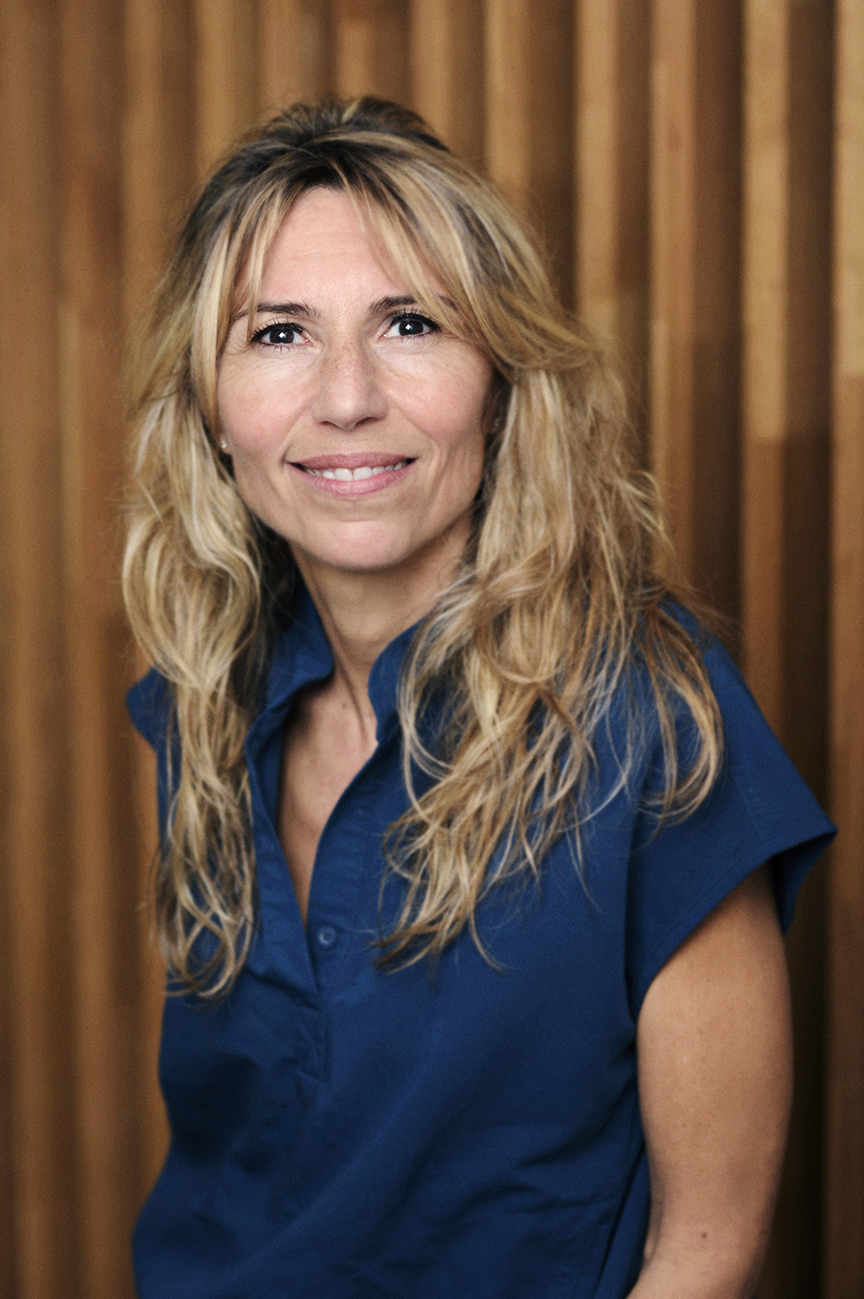
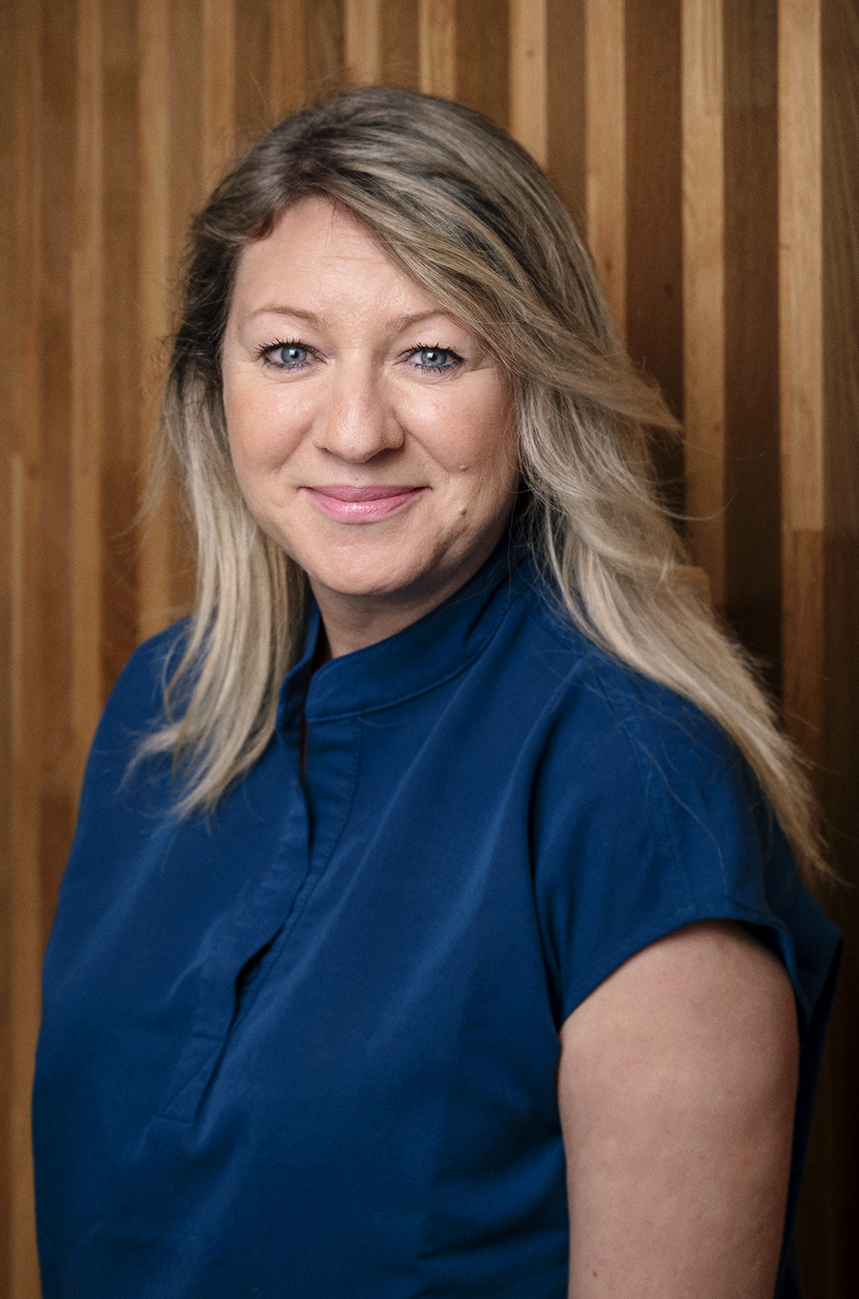
Correction horaires

diff --git a/src/components/homeComponents/Presentation/PresentationSection.tsx b/src/components/homeComponents/Presentation/PresentationSection.tsx
@@ -26,10 +26,10 @@ const PresentationSection: FC<PresentationSectionProps> = ({setPresentationInVie
 
   return (
     <section className='pt-0 tablet:pt-64 pb-96'>
-      <HomeTitle title='Une équipe à taille humaine' textColor='text-main-theme' lineColor='bg-main-theme' />
+      {/* <HomeTitle title='Une équipe à taille humaine' textColor='text-main-theme' lineColor='bg-main-theme' /> */}
       <InView as="article" onChange={(inView, entry)=> setPresentationInView(inView)} >
         <InView triggerOnce={true} onChange={(inView, entry)=> setViewImg(inView)} />
-        <aside className='tablet:flex hidden w-full justify-center relative'>
+        {/* <aside className='tablet:flex hidden w-full justify-center relative'>
           <LineThrough bgColor='bg-main-theme' width='1px' height='100%' variants={vertical} animate={viewImg ? "animate":""} delay={0.25}/>
           <motion.div 
             variants={appearFromBottom} 
@@ -39,7 +39,7 @@ const PresentationSection: FC<PresentationSectionProps> = ({setPresentationInVie
             className='min-w-[95%] mobile:min-w-[85%] desktop:min-w-[60%] h-[250px] tablet:h-[400px] laptop:h-[500px] bg-[url("/images/team.jpg")] bg-cover laptop:bg-[center_top_-65px] opacity-[0.95] border-l border-r border-main-theme'
           />
           <LineThrough bgColor='bg-main-theme' width='1px' height='100%' variants={vertical} animate={viewImg ? "animate":""} delay={0.25} originY={1} />
-        </aside>
+        </aside> */}
         <LineThrough height='1px' width='100%' bgColor="bg-main-theme" variants={horizontal} animate={viewImg ? "animate":""} delay={0.5} classComplement='tablet:block hidden' />
         <div className={`${tauri.className} ${textStaggerClass}`}>
           <TextStagger text="l'envolée - Cabinet dentaire" initialDelay={0.75} inView={viewOnce} />
@@ -108,7 +108,7 @@ const PresentationSection: FC<PresentationSectionProps> = ({setPresentationInVie
           leftBrownPosition='5%' 
           brownHeight='27.5%' 
           textLeft={true}
-          nom='Estelle'
+          nom='Lydia Ferreira'
           fonction='Assistante dentaire/Secrétaire médicale'
           inView={viewOnceThree}
           img="portrait-assistante.jpg"
@@ -116,7 +116,7 @@ const PresentationSection: FC<PresentationSectionProps> = ({setPresentationInVie
           <motion.div variants={appearFromLateral} initial="initial" animate={viewOnceThree ? "animate":""} custom={0.5} className='self-start text-justify p-5 leading-8 flex gap-1'>
             <FaQuoteLeft size={50} className='-translate-y-5 tablet:block hidden min-w-8' />
             <p className='text-main-theme indent-5 tablet:indent-8 text-xl laptop:text-2xl laptop:leading-10 leading-8 tracking-wide '>
-              J’éprouve une grande satisfaction à être à l’écoute, à accueillir chaque patient afin de l’accompagner au cours de son suivi médical et de répondre au mieux à ses attentes. 
+              Expérimentée et passion&shy;née par mon mé&shy;tier, je suis à vos cô&shy;tés pour vous ac&shy;com&shy;pa&shy;gner, veil&shy;ler à vo&shy;tre bien-être et as&shy;su&shy;rer le bon dé&shy;rou&shy;le&shy;ment de vos soins, le tout, dans un envi&shy;ron&shy;ne&shy;ment se&shy;rein.
             </p>
             <FaQuoteRight size={50} className='self-end translate-y-5 tablet:block hidden min-w-8'/>
           </motion.div>

diff --git a/src/components/homeComponents/HomeScreen.tsx b/src/components/homeComponents/HomeScreen.tsx
@@ -32,7 +32,7 @@ const HomeScreen: FC = () => {
       <ImageModal />
       <main className={`${bgColor} transition-colors duration-300 overflow-x-hidden`}>
         <AnchorSection/>
-        <motion.div 
+        {/* <motion.div 
           initial={{opacity:0}}
           animate={viewImage ? {opacity:1}:{}}
           transition={{duraion:0.25}}
@@ -40,7 +40,7 @@ const HomeScreen: FC = () => {
         >
           <InView triggerOnce={true} onChange={(inView, entry)=> setViewImg(inView)} />
           <Image src="/images/team.jpg" alt="Equipe complète du Cabinet dentaire L'Envolée à Montpellier/Castelnau-le-lez" className='' fill style={{objectFit:"cover"}} />
-        </motion.div>
+        </motion.div> */}
         <PresentationSection setPresentationInView={setPresentationInView}/>
         <AccueilSection accueilSectionInview={accueilInView} setAccueilSectionInView={setAccueilInView}/>
       </main>

diff --git a/src/app/infos-pratiques/Acces.tsx b/src/app/infos-pratiques/Acces.tsx
@@ -40,7 +40,7 @@ const Acces:FC = () => {
         <li className="relative flex">
           <FaCaretSquareRight size={20} className={caretLiClass} />
           <p className={classParoLi}>
-            Le Parking TAM souterrain (CAP CONCORDE) est si&shy;tué dans la ré&shy;si&shy;den&shy;ce du Pr&shy;do, au ni&shy;veau de l&apos;en&shy;sei&shy;gne Krys, <span className='font-semibold'>rue du Pra&shy;do</span>. <span className='font-semibold'>Sui&shy;vez le pan&shy;neau &quot;Par&shy;king TAM&quot;.</span>
+            Le Parking TAM souterrain (CAP CONCORDE) est si&shy;tué dans la ré&shy;si&shy;den&shy;ce du Pra&shy;do, au ni&shy;veau de l&apos;en&shy;sei&shy;gne Krys, <span className='font-semibold'>rue du Pra&shy;do</span>. <span className='font-semibold'>Sui&shy;vez le pan&shy;neau &quot;Par&shy;king TAM&quot;.</span>
           </p>
         </li>
       </ul>

diff --git a/src/components/demander-rdv/RDVForm.tsx b/src/components/demander-rdv/RDVForm.tsx
@@ -27,7 +27,7 @@ const RDVForm = () => {
   }, [state])
   
   return (
-    <Card className={`py-5 px-2 mobile:p-5 ${tauri.className}`}>
+    <Card className={`py-5 px-2 mobile:p-5 border-main-theme ${tauri.className}`}>
       {
         state.success && state.data
         ?
@@ -37,7 +37,7 @@ const RDVForm = () => {
         :
         <>
           <CardTitle className='text-main-theme text-center laptop:text-xl mt-5 mb-10 '>Remplissez les champs demandés. Tous les champs sont obligatoires.</CardTitle>
-          <Card className='pt-3 pb-5 px-1 mobile:px-5'>
+          <Card className='pt-3 pb-5 px-1 mobile:px-5 border-main-theme'>
             <form action={formAction}>
               <input type='hidden' name='docteur' value={docteur} />
               <input type='hidden' name='contactByEmail' value={JSON.stringify(contactByEmail)} />

diff --git a/src/components/homeComponents/Anchor/AnchorSection.tsx b/src/components/homeComponents/Anchor/AnchorSection.tsx
@@ -61,7 +61,7 @@ const AnchorSection: FC = () => {
   }, [])
 
   return (
-    <section className='w-[95%] desktop:w-[1440px] mx-auto mb-0 laptop:mb-72' style={{height: returnSectionHeight(height ?? 0, width?? 0), marginTop: `${returnMarginTop(width ?? 0)}`}}>
+    <section className='w-[95%] desktop:w-[1440px] mx-auto mb-96 laptop:mb-72' style={{height: returnSectionHeight(height ?? 0, width?? 0), marginTop: `${returnMarginTop(width ?? 0)}`}}>
       <div className='w-full h-[660px] desktop:h-[700px] flex items-start relative'>
         <LineThrough height='103%' bgColor='bg-buff' width='1px' variants={vertical} delay={0.5} />
         <motion.article variants={opacities} custom={{delay: 1.8, duration: 0.25}} initial="initial" animate="animate" className="relative h-full w-1/2 hidden laptop:block">

diff --git a/src/components/shared/HorairesInfo.tsx b/src/components/shared/HorairesInfo.tsx
@@ -13,7 +13,7 @@ const HorairesInfo: FC<HorairesInfoProps> = ({menuTop=false}) => {
       <FaRegClock size={40} className='w-[50px]' />
       <div className={`${menuTop ? "border-l-2 text-xs border-buff px-2":"pt-2"} tracking-wider`}>
         <p className={`underline underline-offset-4 pb-1 ${tauri.className}`}>Horaires du cabinet</p>
-        <span>Lundi - Jeudi : 9h00-17h00 <br/>Vendredi : 9h00-16h00 <br/></span>
+        <span>Lundi - Jeudi : 9h00-19h00 <br/>Vendredi : 9h00-16h00 <br/></span>
       </div>
     </article>
   )
